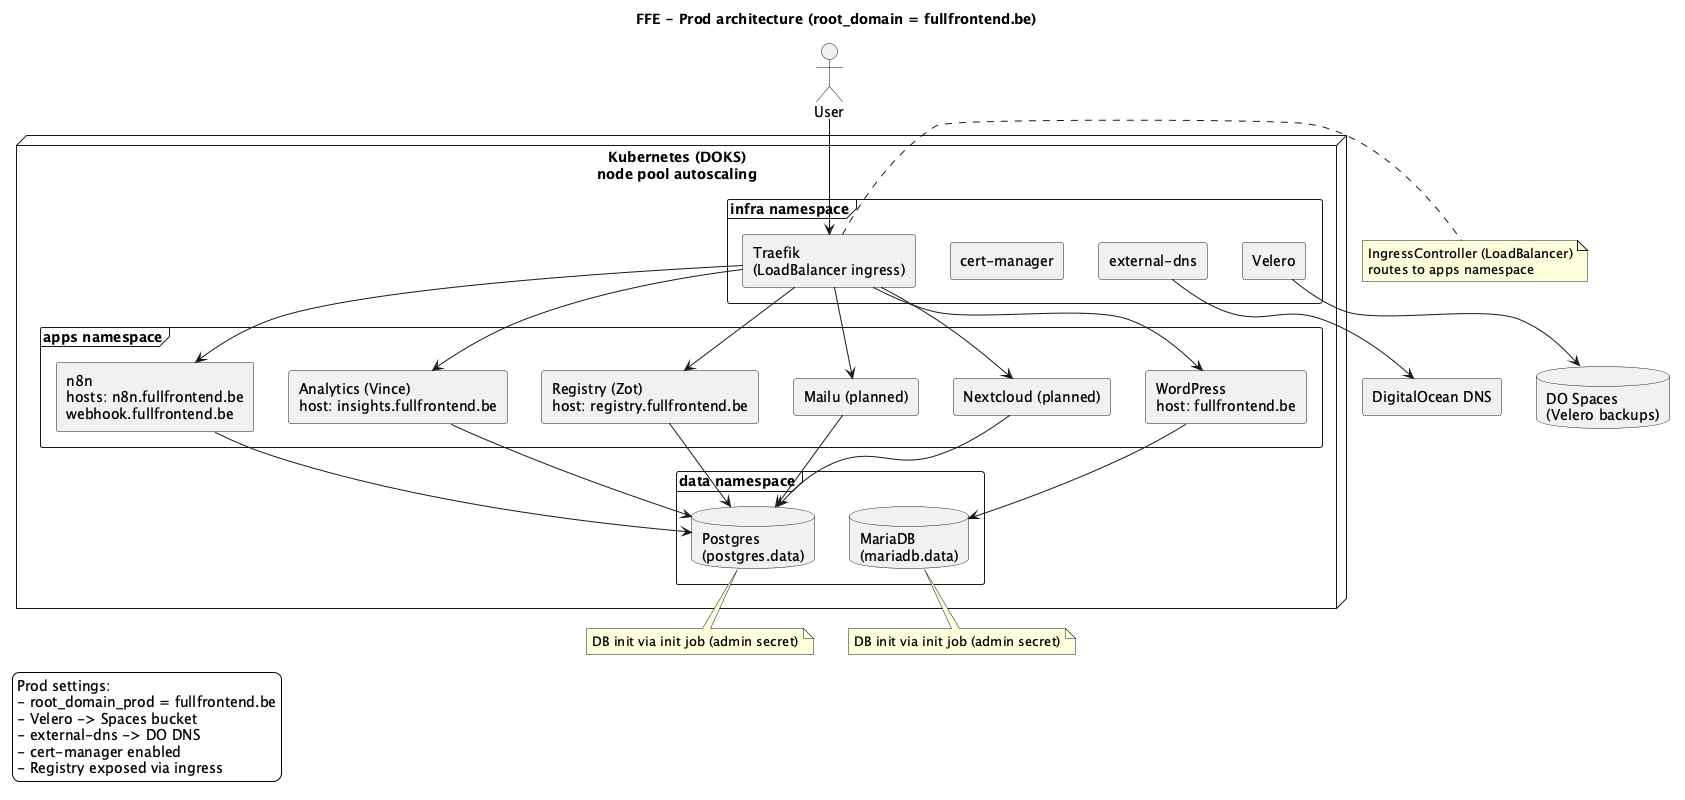
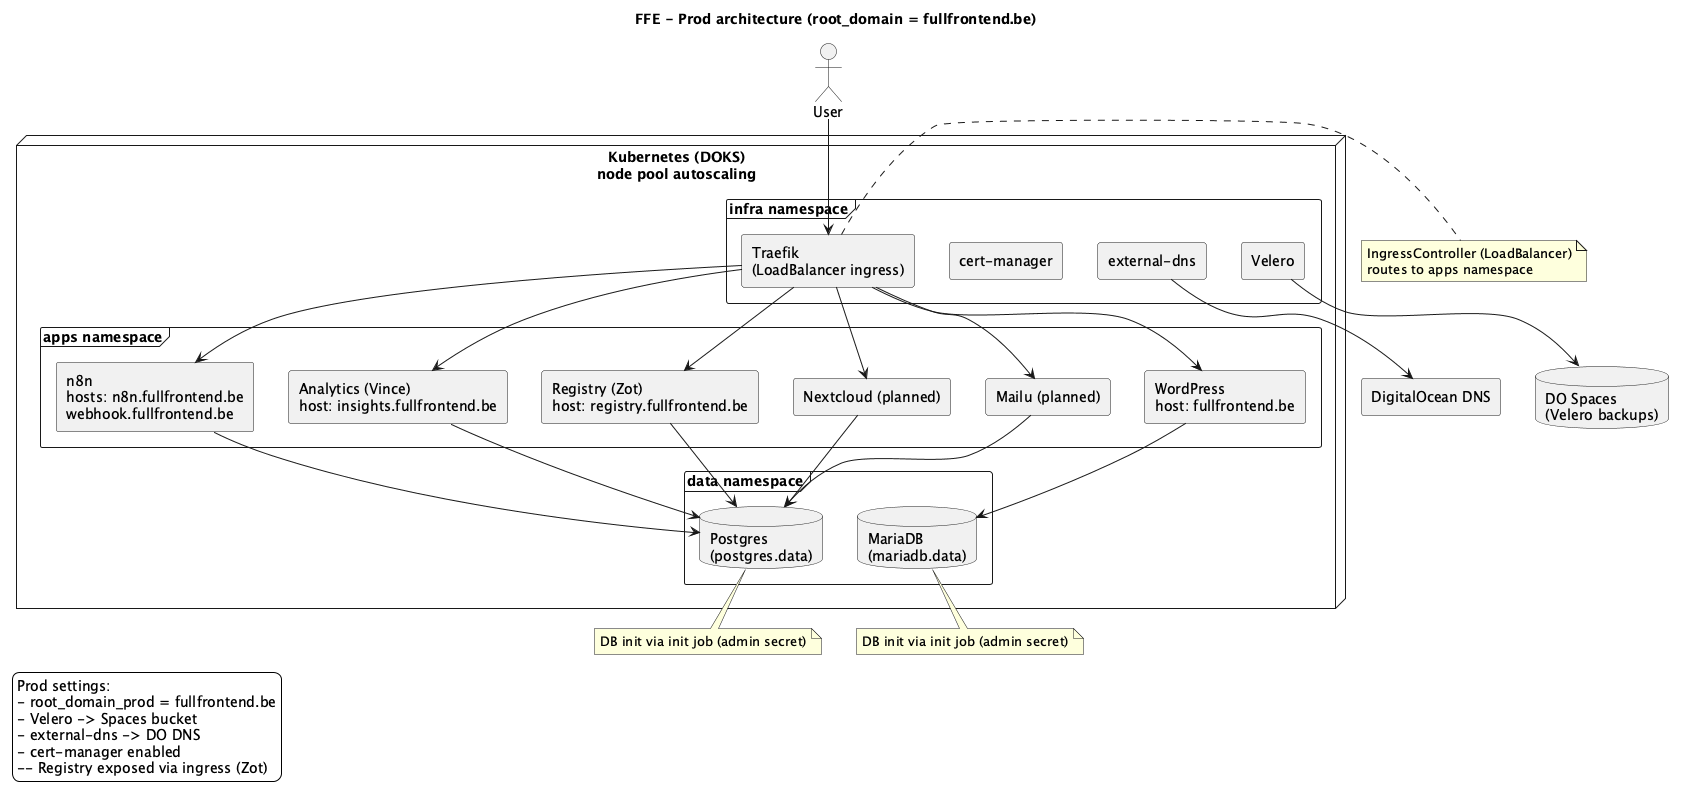
domains doc updates

diff --git a/README.md b/README.md
@@ -47,6 +47,7 @@ Pour le cadre global et les règles :
   - Nextcloud : `cloud.<root_domain>` → prod `cloud.fullfrontend.be`, dev `cloud.fullfrontend.kube`
   - Mailu : `mail.<root_domain>` → prod `mail.fullfrontend.be`, dev `mail.fullfrontend.kube`
   - Analytics : `insights.<root_domain>` → prod `insights.fullfrontend.be`, dev `insights.fullfrontend.kube`
+  - Registry (Zot) : `registry.<root_domain>` → prod `registry.fullfrontend.be`, dev `registry.fullfrontend.kube`
 
 ## Bonnes pratiques
 - Pas de charts/images Bitnami.
